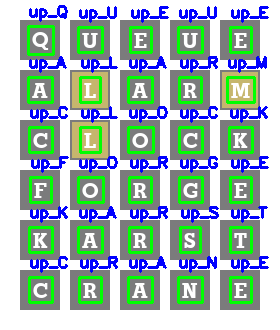
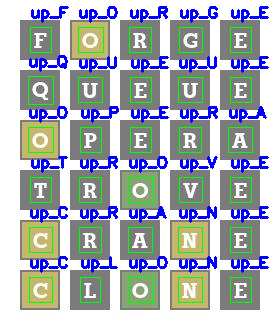
third

diff --git a/main3.py b/main3.py
@@ -8,11 +8,13 @@
  @SoftWare: PyCharm
 """
 import cv2
-import os
+import os, json
 import numpy as np
 
 
 def match_templates(image_path, template_dir):
+    locs = []
+
     image = cv2.imread(image_path)
     gray_image = cv2.cvtColor(image, cv2.COLOR_BGR2GRAY)
 
@@ -21,20 +23,41 @@ def match_templates(image_path, template_dir):
     for template_file in template_files:
         template_path = os.path.join(template_dir, template_file)
         template = cv2.imread(template_path, 0)
+        _, template_h = template.shape
 
         result = cv2.matchTemplate(gray_image, template, cv2.TM_CCOEFF_NORMED)
-        threshold = 0.95
+        threshold = 0.90
 
         loc = np.where(result >= threshold)
         for pt in zip(*loc[::-1]):
+            print(pt)
+            locs.append([pt, template_file[:-4], template_h])
             h, w = template.shape
-            cv2.rectangle(image, pt, (pt[0] + w, pt[1] + h), (0, 255, 0), 2)
+            cv2.rectangle(image, pt, (pt[0] + w, pt[1] + h), (0, 255, 0), 1)
             cv2.putText(image, template_file[:-4], (pt[0], pt[1] - 10), cv2.FONT_HERSHEY_SIMPLEX, 0.5, (255, 0, 0), 2)
 
     # cv2.imshow('Template Matcher', image)
     cv2.imwrite('MatchedImage.png', image)
     cv2.waitKey(0)
     cv2.destroyAllWindows()
+    return locs
 
 
-match_templates('test.png', './res')
+def split_line(locs, index_path):
+    with open(index_path) as f:
+        index = json.load(f)
+    # [[(array([129, 229]), array([230, 130])), 'up_A', 20],  ...
+    locs.sort(key=lambda x: (x[0][1], x[0][0]))
+    # print(locs)
+    for i, a in enumerate(locs):
+        if i > 0:
+            if (locs[i][0][1] - locs[i - 1][0][1]) > ((locs[i][2] + locs[i - 1][2]) / 2):
+                print()
+
+        print(index["data"][a[1]], end=" ")
+
+
+split_line(
+    match_templates('test2.jpeg', './res'),
+    "./res/index.json"
+)

diff --git a/main.py b/main.py
@@ -95,4 +95,4 @@ def main(image_path, template_paths):
 
 if __name__ == '__main__':
     template_paths = os.listdir("./res")
-    main('test.png', template_paths)
+    main('text_image.png', template_paths)
